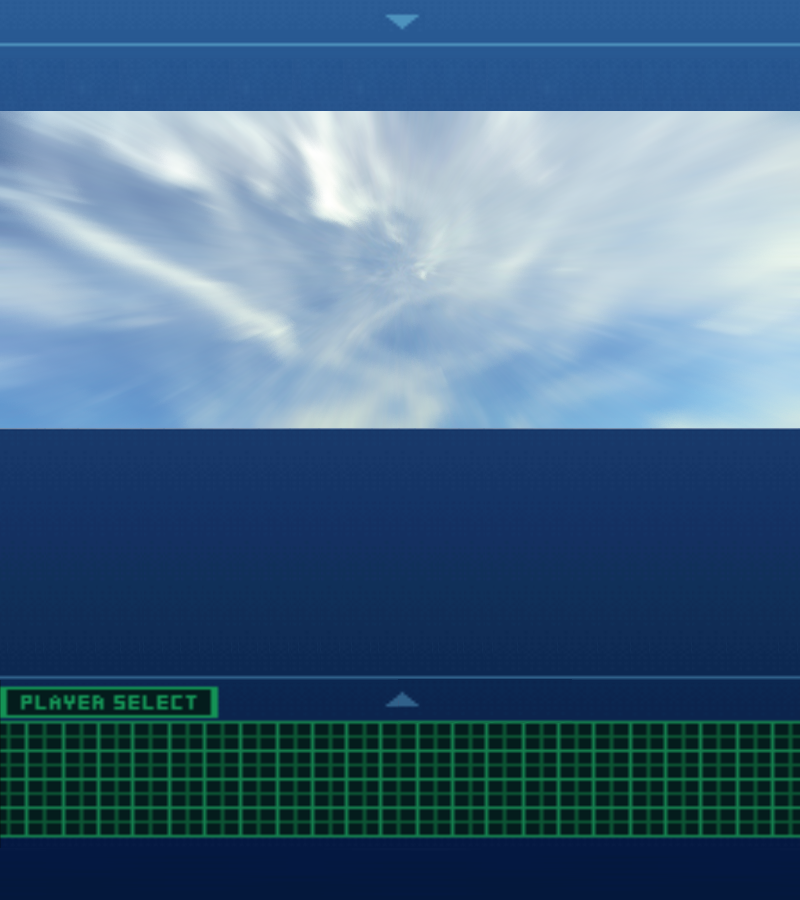
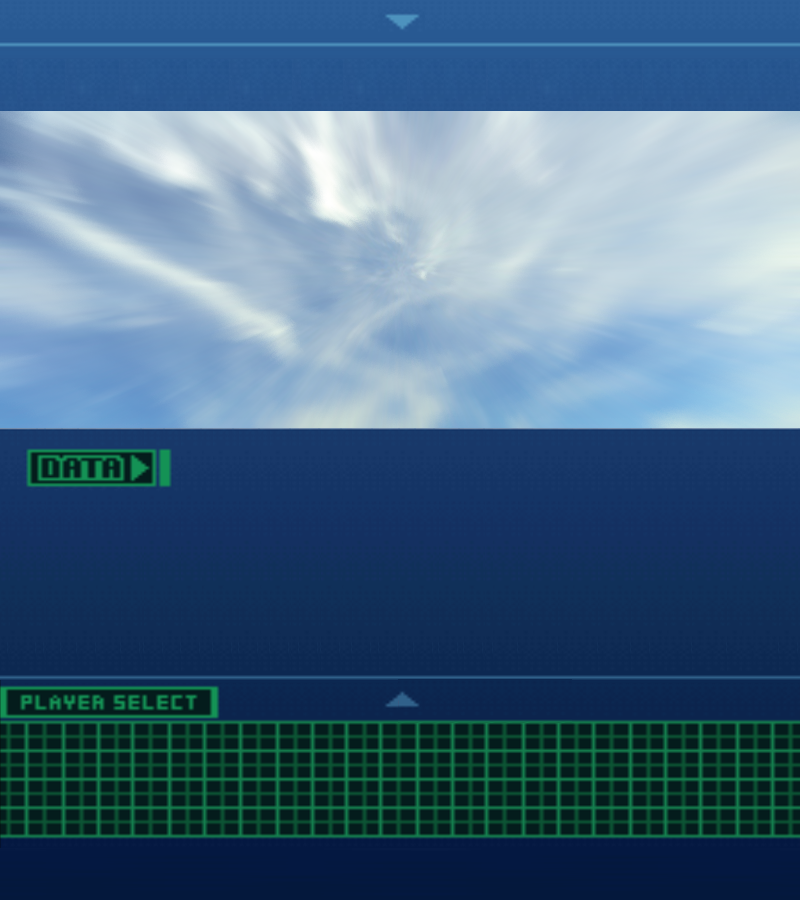
로비 화면 완성. (뒤에 숫자판 움직이는 것은 깔 끔한 방법 떠오르면 하자 오늘은 머리 아프네)

Changed region(s): [[0.0312, 0.4978, 0.2188, 0.56]]

diff --git a/LearnEveryMoment/Lobby.cpp b/LearnEveryMoment/Lobby.cpp
@@ -18,10 +18,18 @@ void CLobby::Initialize()
 	setObjProto(new CLobbyObjProto()); //프로토타입 등록
 	
 	CreateBaseObjects();
+
+	m_selected = PA_SuperHornet;
+	m_select_fighter[m_selected]->select(true); //초기 세팅
 }
 
 void CLobby::KeyProcess()
 {
+	if (GET_SINGLE(CKeyMgr)->GetKeyState(VK_LEFT) == KS_KeyDown)
+		moveSelect(DIR4_LEFT);
+
+	if (GET_SINGLE(CKeyMgr)->GetKeyState(VK_RIGHT) == KS_KeyDown)
+		moveSelect(DIR4_RIGHT);
 }
 
 SceneReturn CLobby::Progress()
@@ -45,7 +53,8 @@ void CLobby::Release()
 
 void CLobby::LoadTexture()
 {
-	GET_SINGLE(CTextureMgr)->InsertTexture(L"resource/image/Background/Lobby/back_Lobby.png", L"Background", L"Lobby", L"Main", L"Normal", 1);
+	GET_SINGLE(CTextureMgr)->InsertTexture(L"resource/image/Background/Lobby/back_Lobby.png", L"Background", L"Lobby", L"Main", L"Normal", 1); 
+	GET_SINGLE(CTextureMgr)->InsertTexture(L"resource/image/Background/Lobby/back_number.png", L"Background", L"Lobby", L"Number", L"Normal", 1); 
 
 	GET_SINGLE(CTextureMgr)->InsertTexture(L"resource/image/UI/Lobby/SelectMark/Normal/%02d.png", L"UI", L"Lobby", L"SelectMark", L"Normal", 1);
 	
@@ -105,13 +114,77 @@ void CLobby::CreateBaseObjects()
 {
 	m_background = (CBack_Lobby*) GET_SINGLE(CObjMgr)->AddObject(getObjProto(), L"Background");
 	
-	m_select_fighter[0] = (CSelect_Aircraft*)GET_SINGLE(CObjMgr)->AddObject(getObjProto(), L"SA_SuperHornet",	D3DXVECTOR3(096.f, 780.f, 0.f));
-	m_select_fighter[1] = (CSelect_Aircraft*)GET_SINGLE(CObjMgr)->AddObject(getObjProto(), L"SA_Stealth",		D3DXVECTOR3(218.f, 780.f, 0.f));
-	m_select_fighter[2] = (CSelect_Aircraft*)GET_SINGLE(CObjMgr)->AddObject(getObjProto(), L"SA_Raptor",		D3DXVECTOR3(341.f, 780.f, 0.f));
-	m_select_fighter[3] = (CSelect_Aircraft*)GET_SINGLE(CObjMgr)->AddObject(getObjProto(), L"SA_Harrier",		D3DXVECTOR3(462.f, 780.f, 0.f));
-	m_select_fighter[4] = (CSelect_Aircraft*)GET_SINGLE(CObjMgr)->AddObject(getObjProto(), L"SA_Phantom",		D3DXVECTOR3(584.f, 780.f, 0.f));
-	m_select_fighter[5] = (CSelect_Aircraft*)GET_SINGLE(CObjMgr)->AddObject(getObjProto(), L"SA_Random",		D3DXVECTOR3(707.f, 780.f, 0.f));
+	m_select_fighter[PA_SuperHornet]	= (CSelect_Aircraft*)GET_SINGLE(CObjMgr)->AddObject(getObjProto(), L"SA_SuperHornet",	D3DXVECTOR3(096.f, 780.f, 0.f));
+	m_select_fighter[PA_Stealth]		= (CSelect_Aircraft*)GET_SINGLE(CObjMgr)->AddObject(getObjProto(), L"SA_Stealth",		D3DXVECTOR3(218.f, 780.f, 0.f));
+	m_select_fighter[PA_Raptor]			= (CSelect_Aircraft*)GET_SINGLE(CObjMgr)->AddObject(getObjProto(), L"SA_Raptor",		D3DXVECTOR3(341.f, 780.f, 0.f));
+	m_select_fighter[PA_Harrier]		= (CSelect_Aircraft*)GET_SINGLE(CObjMgr)->AddObject(getObjProto(), L"SA_Harrier",		D3DXVECTOR3(462.f, 780.f, 0.f));
+	m_select_fighter[PA_Phantom]		= (CSelect_Aircraft*)GET_SINGLE(CObjMgr)->AddObject(getObjProto(), L"SA_Phantom",		D3DXVECTOR3(584.f, 780.f, 0.f));
+	m_select_fighter[PA_Random]			= (CSelect_Aircraft*)GET_SINGLE(CObjMgr)->AddObject(getObjProto(), L"SA_Random",		D3DXVECTOR3(707.f, 780.f, 0.f));
 
 
 
+}
+
+void CLobby::moveSelect(DIR4 direction)
+{
+	if (direction == DIR4_LEFT)
+	{
+		m_select_fighter[m_selected]->select(false); //선택 해제
+
+		switch (m_selected)
+		{
+		case PA_SuperHornet:
+			m_selected = PA_Random;
+			break;
+		case PA_Stealth:
+			m_selected = PA_SuperHornet;
+			break;
+		case PA_Raptor:
+			m_selected = PA_Stealth;
+			break;
+		case PA_Harrier:
+			m_selected = PA_Raptor;
+			break;
+		case PA_Phantom:
+			m_selected = PA_Harrier;
+			break;
+		case PA_Random:
+			m_selected = PA_Phantom;
+			break;
+		}
+
+		m_select_fighter[m_selected]->select(true); //선택
+	}
+	else if (direction == DIR4_RIGHT)
+	{
+		m_select_fighter[m_selected]->select(false); //선택 해제
+
+		switch (m_selected)
+		{
+		case PA_SuperHornet:
+			m_selected = PA_Stealth;
+			break;
+		case PA_Stealth:
+			m_selected = PA_Raptor;
+			break;
+		case PA_Raptor:
+			m_selected = PA_Harrier;
+			break;
+		case PA_Harrier:
+			m_selected = PA_Phantom;
+			break;
+		case PA_Phantom:
+			m_selected = PA_Random;
+			break;
+		case PA_Random:
+			m_selected = PA_SuperHornet;
+			break;
+		}
+
+		m_select_fighter[m_selected]->select(true); //선택
+	}
+	else
+	{
+		TRACE(L"CLobby moveSelect()에서 이상상황 발생");
+	}
 }

diff --git a/LearnEveryMoment/Select_Aircraft.cpp b/LearnEveryMoment/Select_Aircraft.cpp
@@ -8,6 +8,11 @@ CSelect_Aircraft::CSelect_Aircraft(PlayableAircraft aircraft)
 {
 }
 
+void CSelect_Aircraft::select(bool val)
+{
+	isSelected = val;
+}
+
 CSelect_Aircraft::~CSelect_Aircraft()
 {
 	Release();
@@ -36,7 +41,6 @@ void CSelect_Aircraft::Initialize()
 		setObjName(L"Phantom");
 		break;
 	case PA_SuperHornet:
-		isSelected = true;
 		setObjName(L"SuperHornet");
 		break;
 	case PA_Random:
@@ -46,17 +50,7 @@ void CSelect_Aircraft::Initialize()
 		break;
 	}
 
-	//Big picture
-	calculateMatworld(&m_BigPicture, D3DXVECTOR3(400.f, 320.f, 0.f), D3DXVECTOR3(2.7f, 2.7f, 0.f));
-	calculateMatworld(&m_WeaponInfo, D3DXVECTOR3(510.f, 456.f, 0.f), D3DXVECTOR3(3.6f, 2.7f, 0.f));
-	calculateMatworld(&m_FighterCode, D3DXVECTOR3(026.f, 503.f, 0.f), D3DXVECTOR3(2.7f, 2.7f, 0.f));
-	calculateMatworld(&m_FighterNickname, D3DXVECTOR3(026.f, 576.f, 0.f), D3DXVECTOR3(2.7f, 2.7f, 0.f));
-
-	//본체 Setting
-	calculateMatworld(getObjInfo(), getObjInfo()->getPos(), D3DXVECTOR3(3.f, 3.f, 0.f));
-
-	//커서 Setting
-	calculateMatworld(&m_CursorSelecting, D3DXVECTOR3(getObjInfo()->getPos().x, 710.f, 0.f), D3DXVECTOR3(1.f, 1.f, 0.f));
+	init_calculateMatrix();
 }
 
 void CSelect_Aircraft::Progress()
@@ -79,12 +73,14 @@ void CSelect_Aircraft::Render()
 	
 	if (isSelected == true) // Select 상태 일때 출력할 이미지
 	{
-		drawTexture(&m_CursorSelecting, RefPos_Center, 0, L"UI", L"Lobby", L"SelectMark", L"Normal");
+		drawTexture(&m_CursorSelecting,			RefPos_Center, 0, L"UI", L"Lobby", L"SelectMark", L"Normal");
 
-		drawTexture(&m_BigPicture,		RefPos_Center,	0,	getObjkey(), getObjName(), L"Body",			L"Big");
-		drawTexture(&m_WeaponInfo,		RefPos_LeftTop, 0,	getObjkey(), getObjName(), L"WeaponInfo",	L"Normal");
-		drawTexture(&m_FighterCode,		RefPos_LeftTop, 0,	getObjkey(), getObjName(), L"Code",			L"Normal");
-		drawTexture(&m_FighterNickname, RefPos_LeftTop, 0,	getObjkey(), getObjName(), L"Nickname",		L"Normal");
+		drawTexture(&m_BigPicture,				RefPos_Center,	0,	getObjkey(), getObjName(), L"Body",			L"Big");
+		drawTexture(&m_WeaponInfo,				RefPos_LeftTop, 0,	getObjkey(), getObjName(), L"WeaponInfo",	L"Normal");
+		drawTexture(&m_FighterCode_Shadow,		RefPos_LeftTop, 0,	getObjkey(), getObjName(), L"Code",			L"Shadow", 105);
+		drawTexture(&m_FighterCode,				RefPos_LeftTop, 0,	getObjkey(), getObjName(), L"Code",			L"Normal");
+		drawTexture(&m_FighterNickname_Shadow,	RefPos_LeftTop, 0,	getObjkey(), getObjName(), L"Nickname",		L"Shadow", 105);
+		drawTexture(&m_FighterNickname,			RefPos_LeftTop, 0,	getObjkey(), getObjName(), L"Nickname",		L"Normal");
 	}
 }
 
@@ -123,3 +119,22 @@ void CSelect_Aircraft::change_AircraftName(PlayableAircraft AircraftName)
 		break;
 	}
 }
+
+void CSelect_Aircraft::init_calculateMatrix()
+{
+	//Big picture
+	calculateMatworld(&m_BigPicture,				D3DXVECTOR3(400.f, 320.f, 0.f), D3DXVECTOR3(2.7f, 2.7f, 0.f));
+	calculateMatworld(&m_WeaponInfo,				D3DXVECTOR3(510.f, 440.f, 0.f), D3DXVECTOR3(3.6f, 2.5f, 0.f));
+	calculateMatworld(&m_FighterCode,				D3DXVECTOR3(026.f, 503.f, 0.f), D3DXVECTOR3(2.7f, 2.7f, 0.f));
+	calculateMatworld(&m_FighterCode_Shadow,		D3DXVECTOR3(034.f, 510.f, 0.f), D3DXVECTOR3(2.7f, 2.7f, 0.f));
+	calculateMatworld(&m_FighterNickname,			D3DXVECTOR3(026.f, 576.f, 0.f), D3DXVECTOR3(2.7f, 2.7f, 0.f));
+	calculateMatworld(&m_FighterNickname_Shadow,	D3DXVECTOR3(034.f, 583.f, 0.f), D3DXVECTOR3(2.7f, 2.7f, 0.f));
+
+
+	//본체 Setting
+	calculateMatworld(getObjInfo(), getObjInfo()->getPos(), D3DXVECTOR3(3.f, 3.f, 0.f));
+
+	//커서 Setting
+	calculateMatworld(&m_CursorSelecting, D3DXVECTOR3(getObjInfo()->getPos().x, 710.f, 0.f), D3DXVECTOR3(1.f, 1.f, 0.f));
+}
+

diff --git a/LearnEveryMoment/Select_Aircraft.h b/LearnEveryMoment/Select_Aircraft.h
@@ -1,8 +1,6 @@
 #pragma once
 #include "Obj.h"
 
-enum PlayableAircraft;
-
 class CSelect_Aircraft : public CObj
 {
 private:
@@ -15,7 +13,9 @@ private:
 	CInfo_Obj m_BigPicture;
 	CInfo_Obj m_WeaponInfo;
 	CInfo_Obj m_FighterCode;
+	CInfo_Obj m_FighterCode_Shadow;
 	CInfo_Obj m_FighterNickname;
+	CInfo_Obj m_FighterNickname_Shadow;
 
 public:
 	virtual void Initialize();
@@ -26,18 +26,11 @@ public:
 
 private:
 	void change_AircraftName(PlayableAircraft AircraftName);
+	void init_calculateMatrix();
 
 public:
 	CSelect_Aircraft(PlayableAircraft aircraft);
+	void select(bool val);
 	virtual ~CSelect_Aircraft();
 };
 
-enum PlayableAircraft
-{
-	PA_Harrier,
-	PA_Stealth,
-	PA_Raptor,
-	PA_Phantom,
-	PA_SuperHornet,
-	PA_Random
-};

diff --git a/LearnEveryMoment/Obj.h b/LearnEveryMoment/Obj.h
@@ -37,7 +37,7 @@ public:
 
 	void calculateMatworld(CInfo_Obj* pInfo, D3DXVECTOR3 inputPos, D3DXVECTOR3 inputScale);
 	void drawTexture(CInfo_Obj* inputInfo, RefPos option_RF, int iCnt, 
-		const TCHAR* in_pObjType, const TCHAR* in_pObjName, const TCHAR* in_pTextureName = NULL, const TCHAR* in_pStateKey = NULL);
+		const TCHAR* in_pObjType, const TCHAR* in_pObjName, const TCHAR* in_pTextureName, const TCHAR* in_pStateKey, int opacity = 255, D3DXVECTOR3 pPos = D3DXVECTOR3(0.f, 0.f, 0.f));
 
 public:
 	virtual void Initialize()PURE;

diff --git a/LearnEveryMoment/Lobby.h b/LearnEveryMoment/Lobby.h
@@ -1,4 +1,5 @@
 #pragma once
+#include "Include.h"
 
 class CScene;
 class CBack_Lobby;
@@ -8,6 +9,8 @@ class CSelect_Aircraft;
 class CLobby : public CScene
 {
 	CBack_Lobby* m_background;
+
+	PlayableAircraft m_selected;
 	CSelect_Aircraft* m_select_fighter[6];
 
 public:
@@ -17,8 +20,11 @@ public:
 	virtual void Render();
 	virtual void Release();
 
+private:
 	virtual void LoadTexture();
 	virtual void CreateBaseObjects();
+	void moveSelect(DIR4 direction);
+
 public:
 	CLobby();
 	virtual ~CLobby();

diff --git a/LearnEveryMoment/Back_Lobby.cpp b/LearnEveryMoment/Back_Lobby.cpp
@@ -39,6 +39,7 @@ void CBack_Lobby::Progress()
 void CBack_Lobby::Render()
 {
 	drawTexture(getObjInfo(), RefPos_LeftTop, 0, getObjkey(), getObjName(), getTexturekey(), getStatekey());
+	drawTexture(getObjInfo(), RefPos_LeftTop, 0, getObjkey(), getObjName(), L"Number", getStatekey(), 255, D3DXVECTOR3(500.f, 0.f, 0.f));
 }
 
 void CBack_Lobby::Release()

diff --git a/LearnEveryMoment/enum.h b/LearnEveryMoment/enum.h
@@ -30,3 +30,21 @@ enum RefPos
 	RefPos_LeftTop,
 	RefPos_Center,
 };
+
+enum DIR4
+{
+	DIR4_LEFT,
+	DIR4_UP,
+	DIR4_RIGHT,
+	DIR4_DOWN,
+};
+
+enum PlayableAircraft
+{
+	PA_Harrier,
+	PA_Stealth,
+	PA_Raptor,
+	PA_Phantom,
+	PA_SuperHornet,
+	PA_Random
+};
